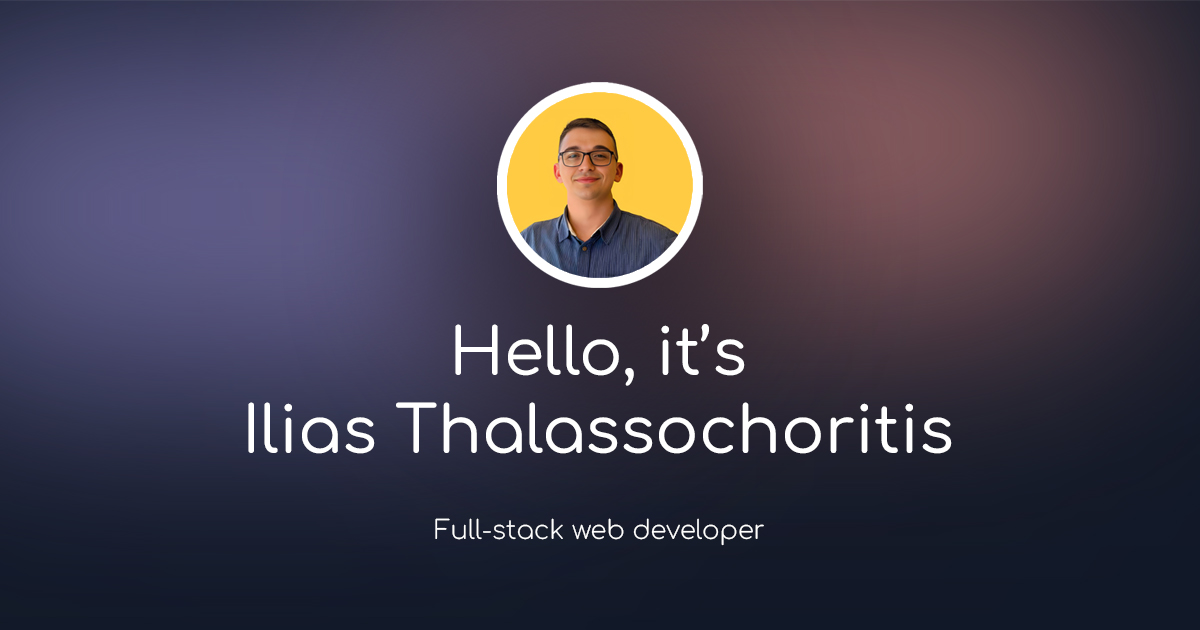
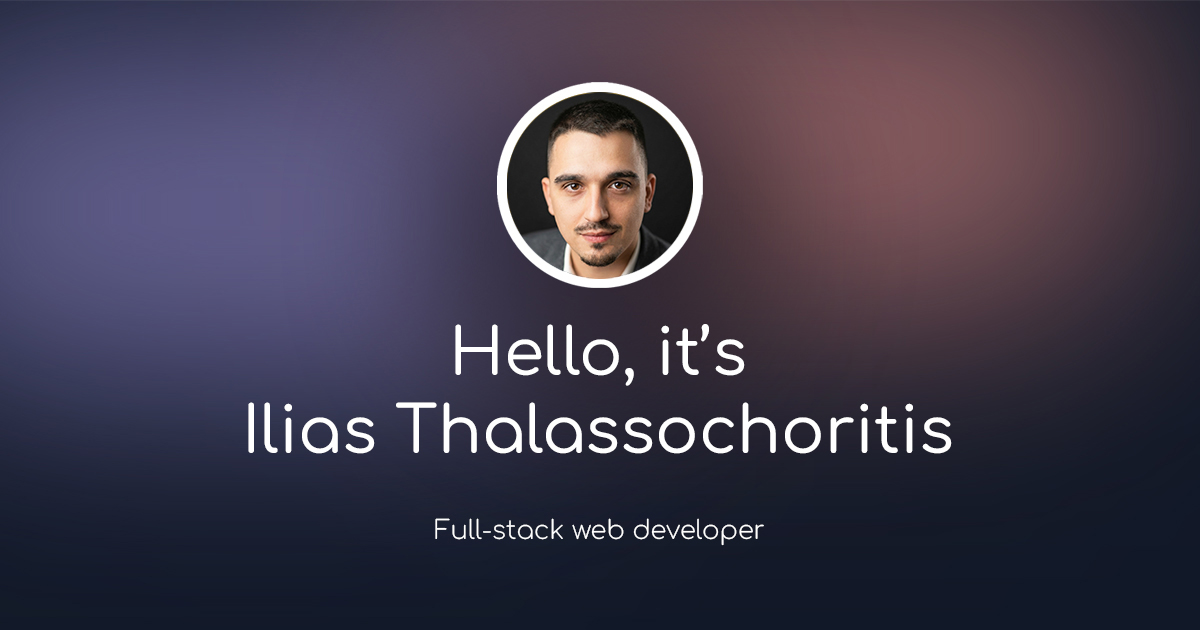
feat: update profile images and adjust intro component
- Replaced the old profile image with a new version in webp format for better performance.
- Updated the image source in the Intro component to reflect the new file name.
- Removed the outdated jpg profile image to streamline assets.

Changed region(s): [[0.4008, 0.1206, 0.5858, 0.4524]]

diff --git a/components/intro.tsx b/components/intro.tsx
@@ -32,7 +32,7 @@ export default function Intro() {
             }}
           >
             <Image
-              src={"/me2.webp"}
+              src={"/me.webp"}
               alt="Ilias portrait"
               width="300"
               height="300"
